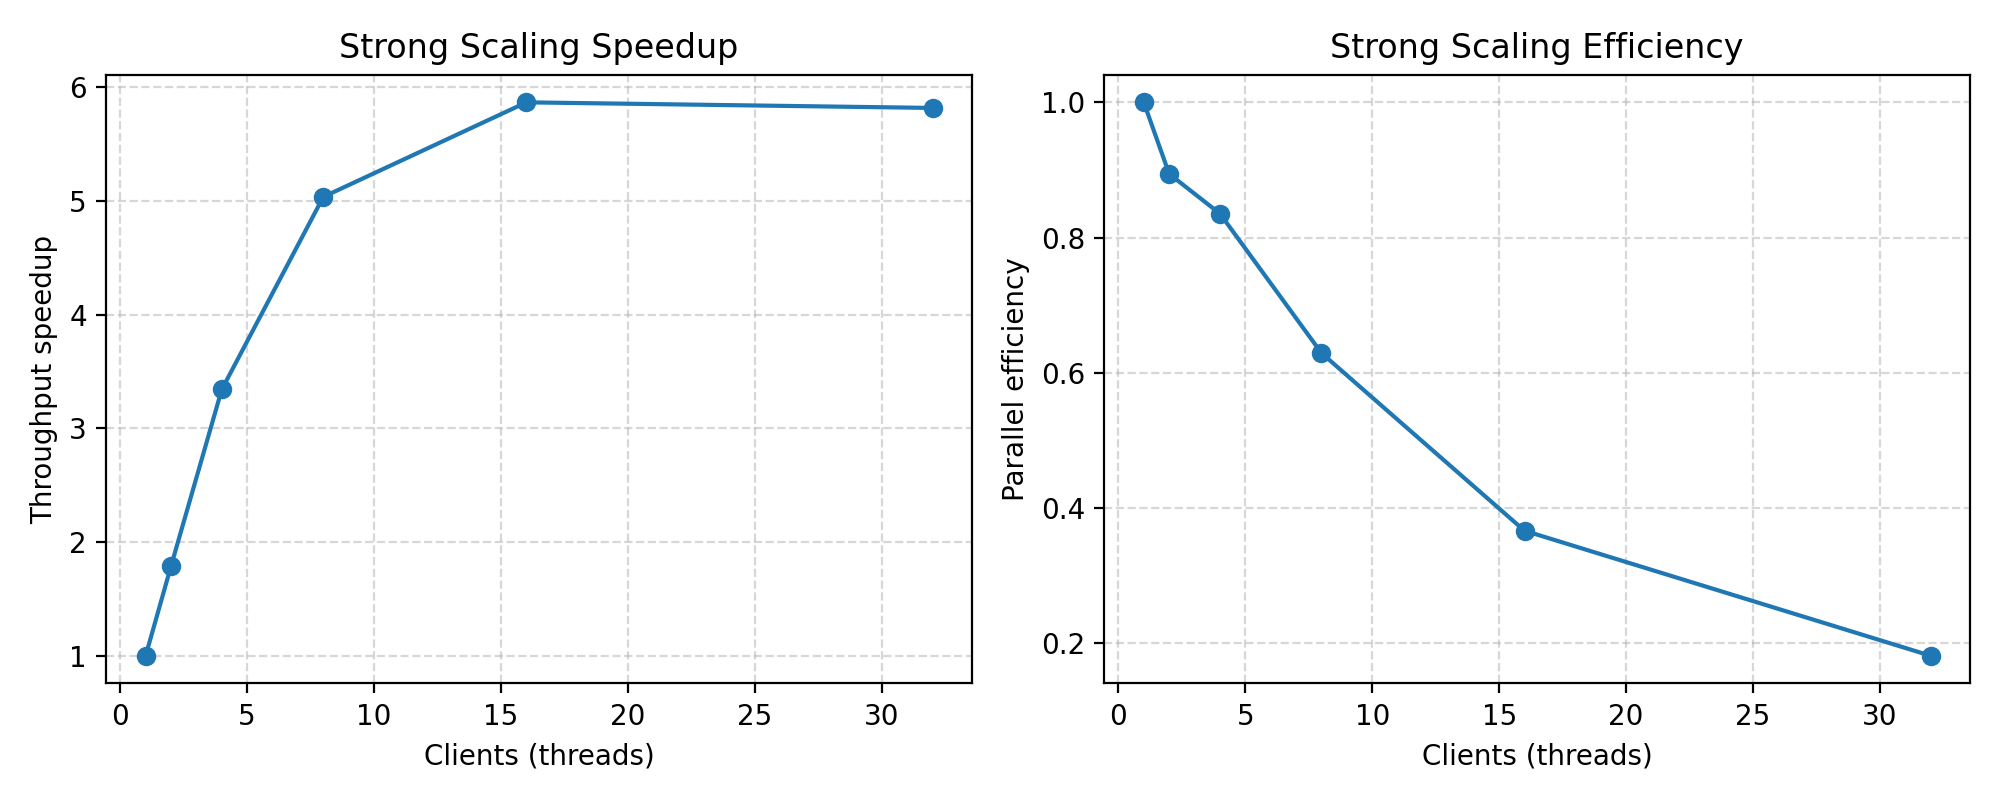
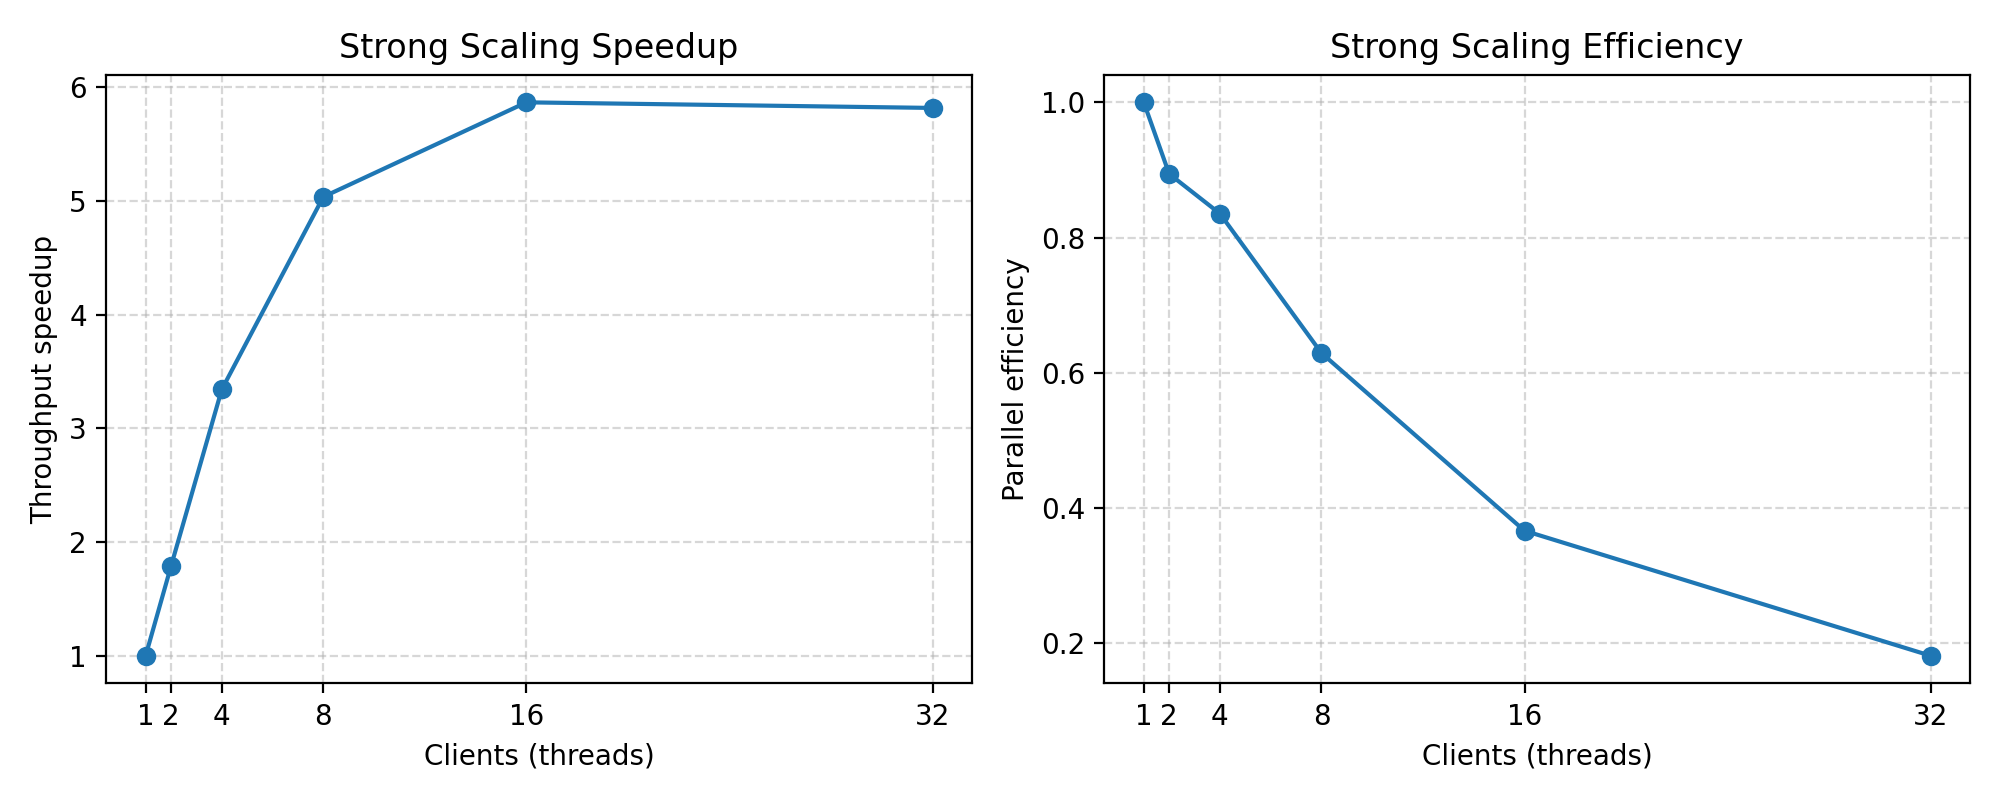
fix: now using correct ticks in plots + regenerated whole set of plots

diff --git a/scripts/generate_plots.py b/scripts/generate_plots.py
@@ -79,6 +79,10 @@ def _plot_throughput(threads: np.ndarray, throughput: np.ndarray, title: str, ou
     ax.set_xlabel("Clients (threads)")
     ax.set_ylabel("Throughput [thousand ops/s]")
     ax.set_title(title)
+    desired_ticks = np.array([1, 2, 4, 8, 16, 32])
+    filtered_ticks = desired_ticks[desired_ticks <= threads.max()]
+    if filtered_ticks.size:
+        ax.set_xticks(filtered_ticks.tolist())
     ax.grid(True, linestyle="--", alpha=0.5)
     fig.tight_layout()
     fig.savefig(outfile, dpi=200)
@@ -92,12 +96,18 @@ def _plot_speedup_efficiency(metrics: dict[str, np.ndarray], title_prefix: str, 
     axes[0].set_xlabel("Clients (threads)")
     axes[0].set_ylabel("Throughput speedup")
     axes[0].set_title(f"{title_prefix} Speedup")
+    desired_ticks = np.array([1, 2, 4, 8, 16, 32])
+    filtered_ticks = desired_ticks[desired_ticks <= metrics["threads"].max()]
+    if filtered_ticks.size:
+        axes[0].set_xticks(filtered_ticks.tolist())
     axes[0].grid(True, linestyle="--", alpha=0.5)
 
     axes[1].plot(metrics["threads"], metrics["efficiency"], marker="o")
     axes[1].set_xlabel("Clients (threads)")
     axes[1].set_ylabel("Parallel efficiency")
     axes[1].set_title(f"{title_prefix} Efficiency")
+    if filtered_ticks.size:
+        axes[1].set_xticks(filtered_ticks.tolist())
     axes[1].grid(True, linestyle="--", alpha=0.5)
 
     fig.tight_layout()
